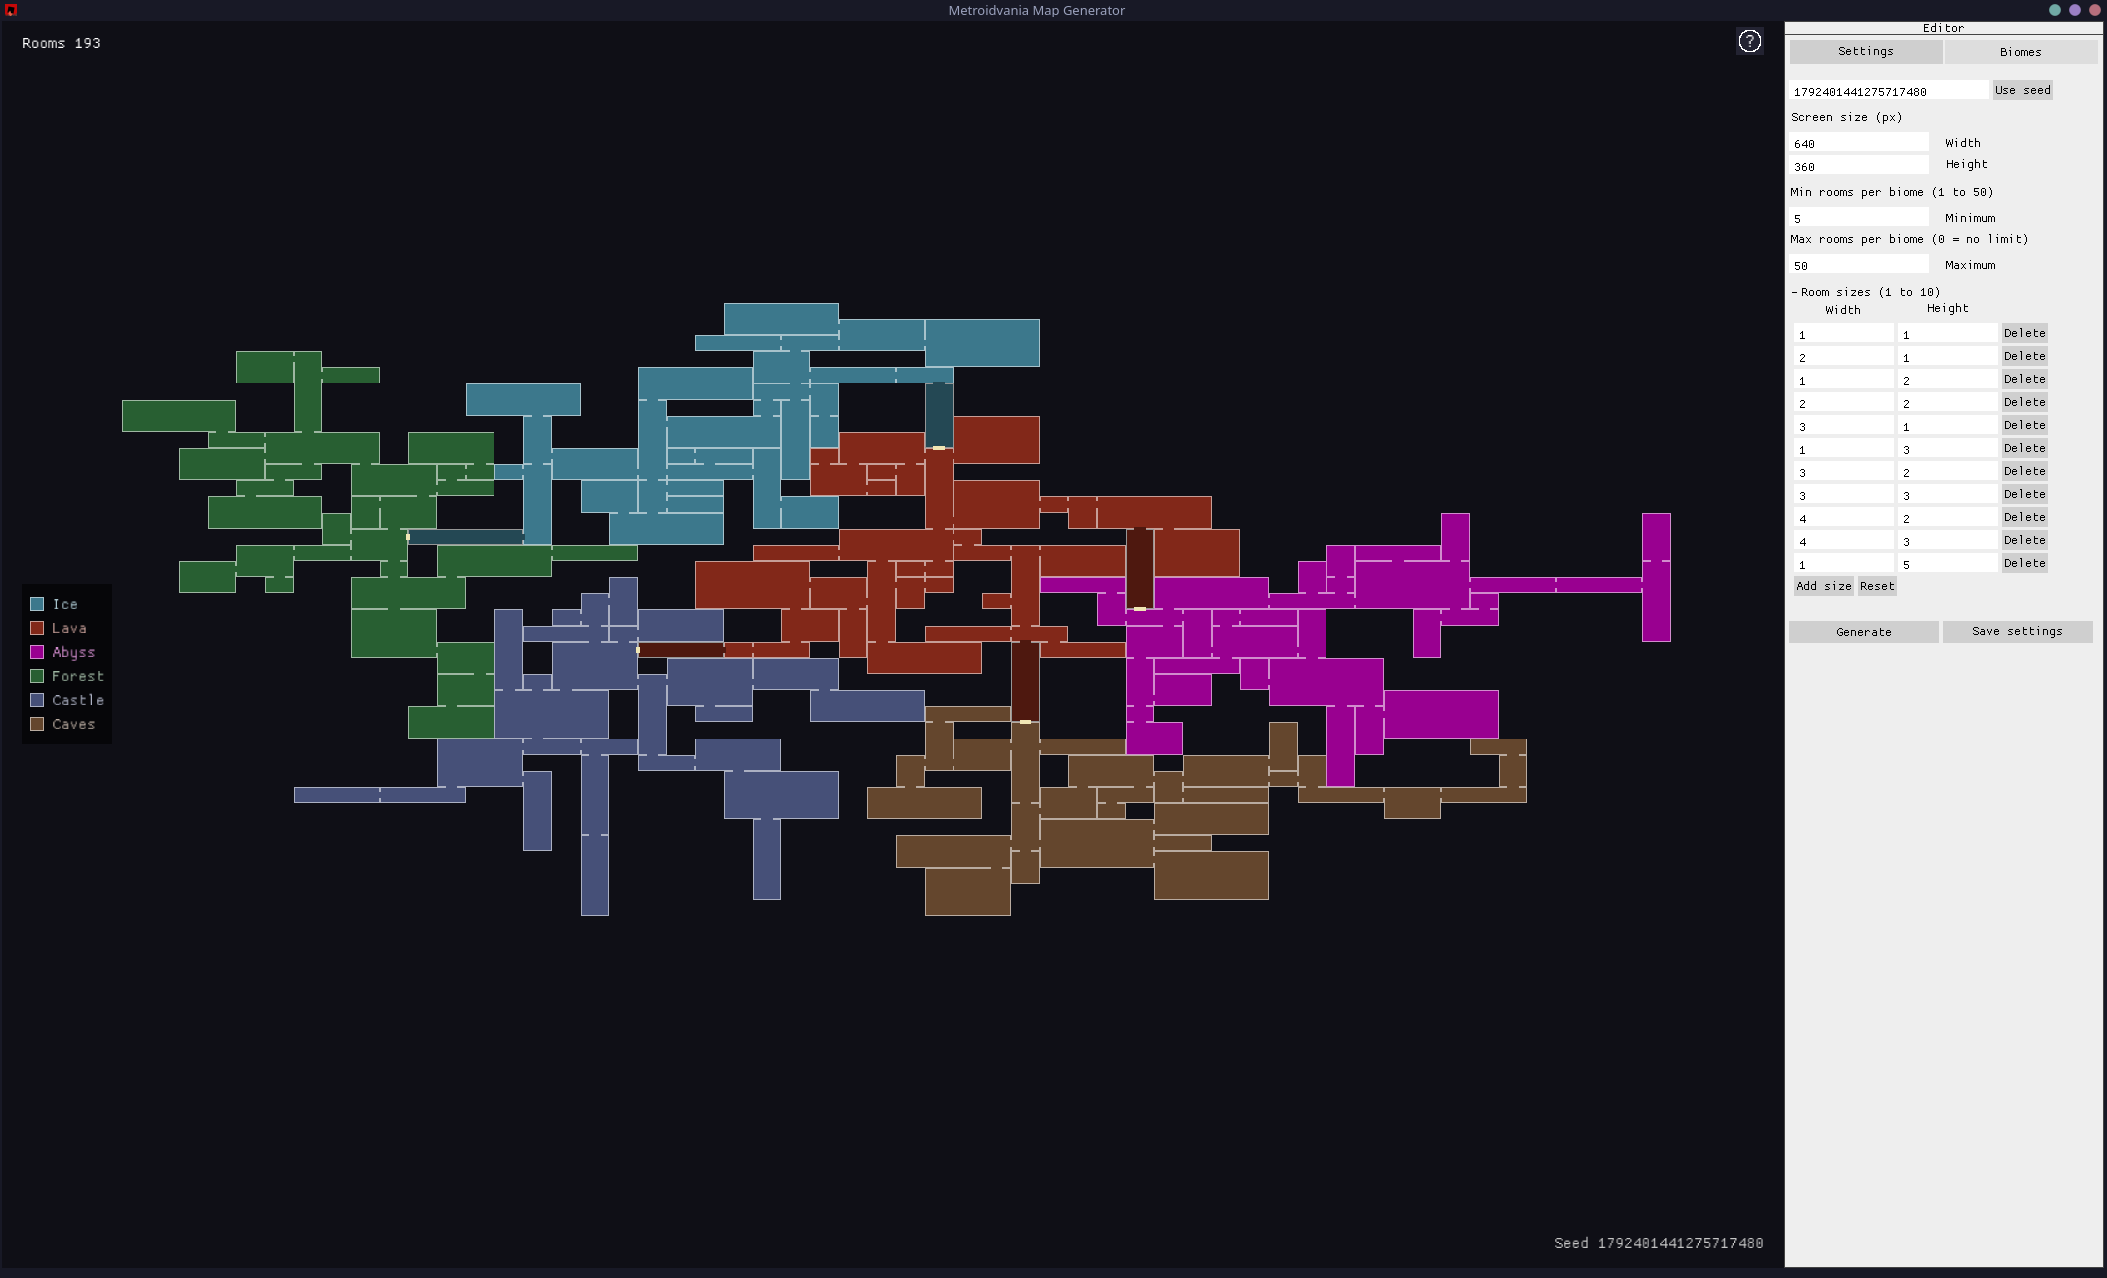
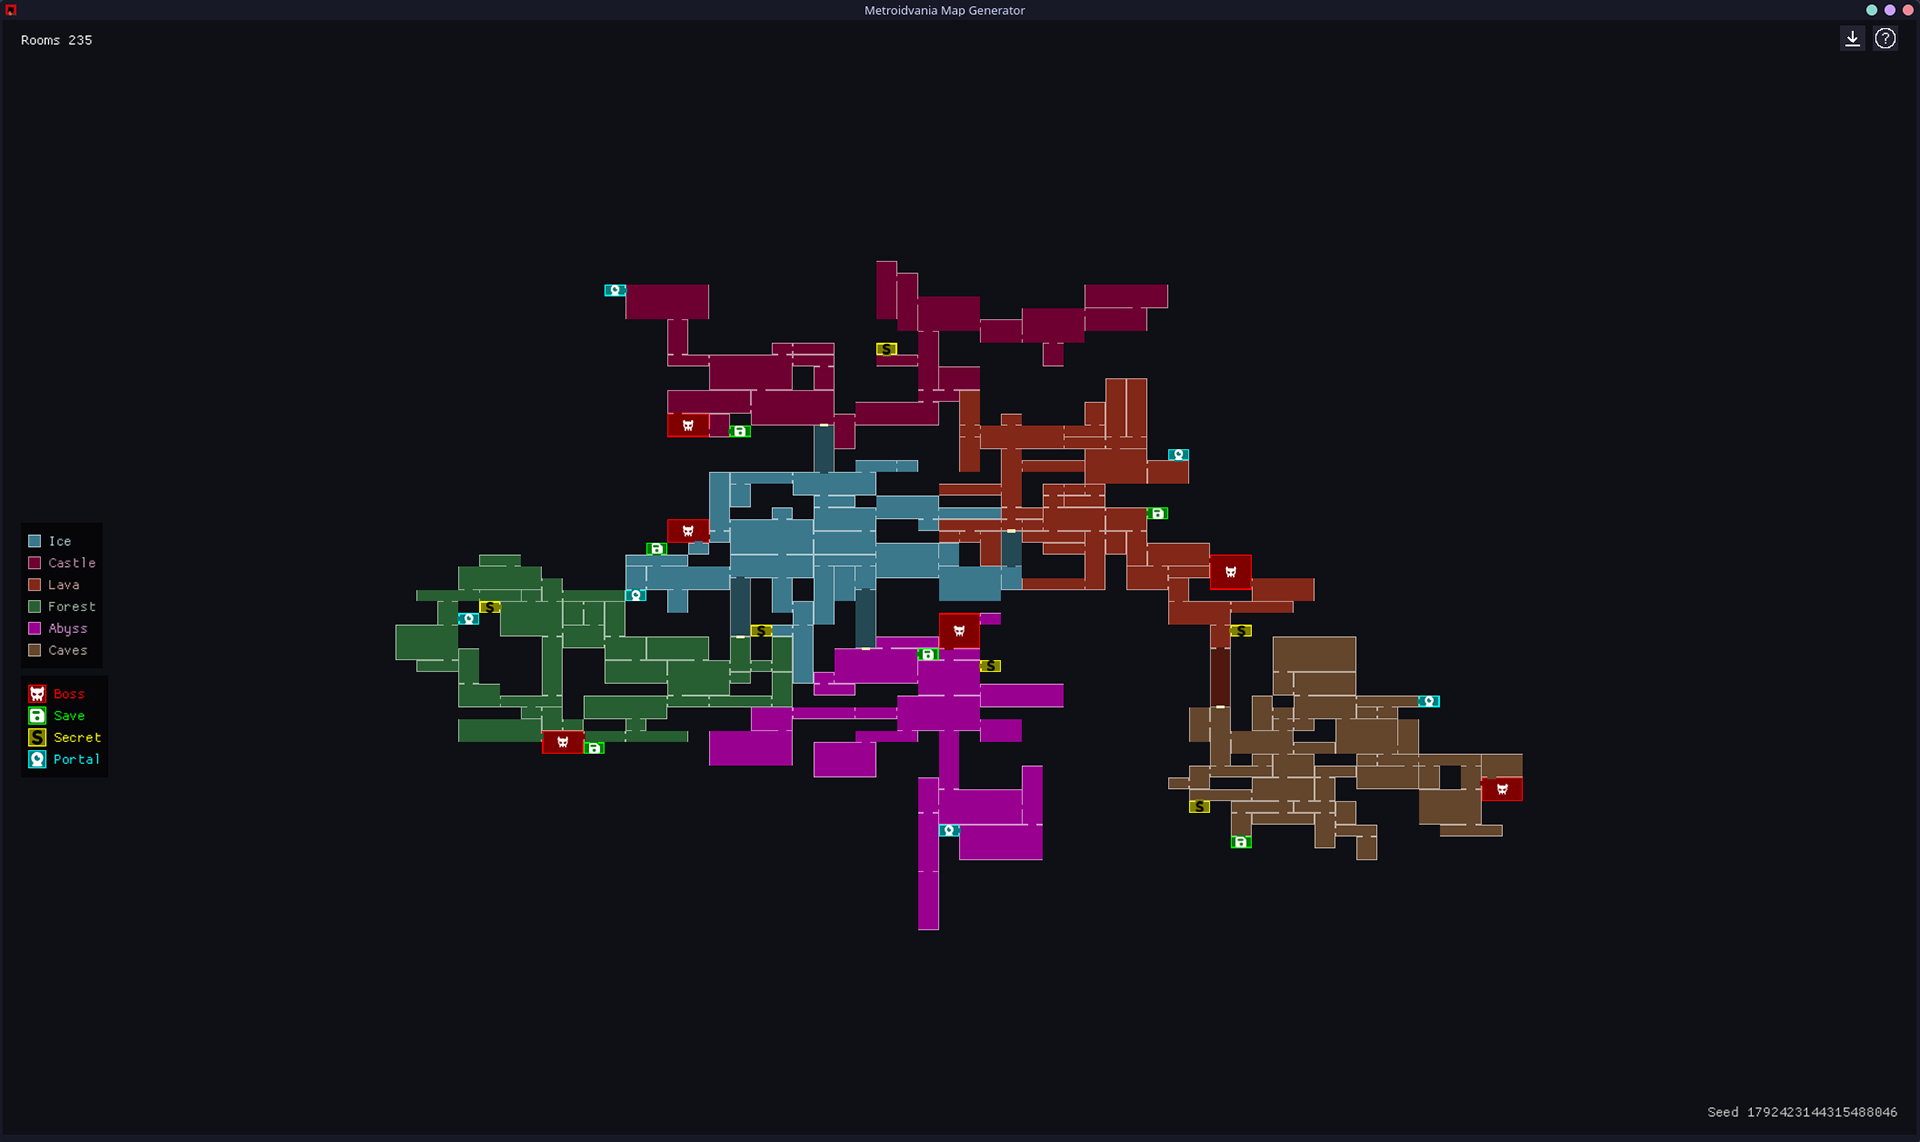
update readme and screenshot

diff --git a/README.md b/README.md
@@ -6,9 +6,9 @@ and save rooms, tune the generation from a built-in editor, and export the resul
 
 Built with Rust and [macroquad](https://github.com/not-fl3/macroquad).
 
-![Screenshot](docs/screenshot.png)
-
-![Screenshot](docs/screenshot_2.png)
+[![Screenshot 1](docs/screenshot-miniature.png)](docs/screenshot.png)
+[![Screenshot 2](docs/screenshot-2-miniature.png)](docs/screenshot-2.png)
+[![Screenshot 3](docs/screenshot-3-miniature.png)](docs/screenshot-3.png)
 
 ## Features
 
